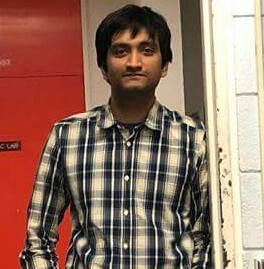
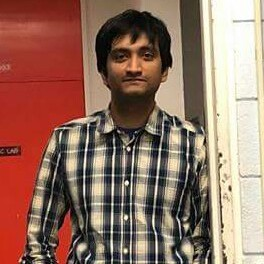
updated all maplers photos to be square

diff --git a/_includes/functions/getprojectmembers.html b/_includes/functions/getprojectmembers.html
@@ -1,8 +1,5 @@
-{% assign members = project.members | append: ',karim' | split: ',' | sort %}
-{% assign maplers = concat: %}
+{% assign members = project.members | append: ",karim" | split: "," | where_exp: "m","m.size > 0" | sort %}
 {% for member in members %}
-{% assign mapler = site.data.%}
-
+  {% assign mapler = site.data.maplers | where: "id",member | first %}
+  {% include /functions/getmaplerpic.html mapler=mapler class="img-circle" %}
 {% endfor %}
-
-{{ members }}

diff --git a/_sass/_layout.scss b/_sass/_layout.scss
@@ -376,9 +376,22 @@
 }
 
 /**
+ * Projects
+ */
+.img-circle {
+  width: 32px;
+  opacity: 0.5;
+  border-radius: 50%;
+}
+
+.img-circle:hover {
+  opacity: 1.0;
+}
+
+
+/**
  * Services
  */
-
 .row.service {
   margin-bottom: 0px;
 }

diff --git a/_includes/functions/getmaplerpic.html b/_includes/functions/getmaplerpic.html
@@ -9,4 +9,4 @@
 {% endfor %}
 
 {% assign pic = pic | strip_newlines | replace: " ", "" %}
-<img alt="{{ mapler.name }}" src="{{ pic }}" />
+<img class="{{ include.class | default: "" }}" alt="{{ mapler.name }}" src="{{ pic }}" />

diff --git a/_sass/_base.scss b/_sass/_base.scss
@@ -95,6 +95,7 @@ a {
 
     &:hover {
         color: $text-color;
+        cursor: pointer;
     }
 }
 
